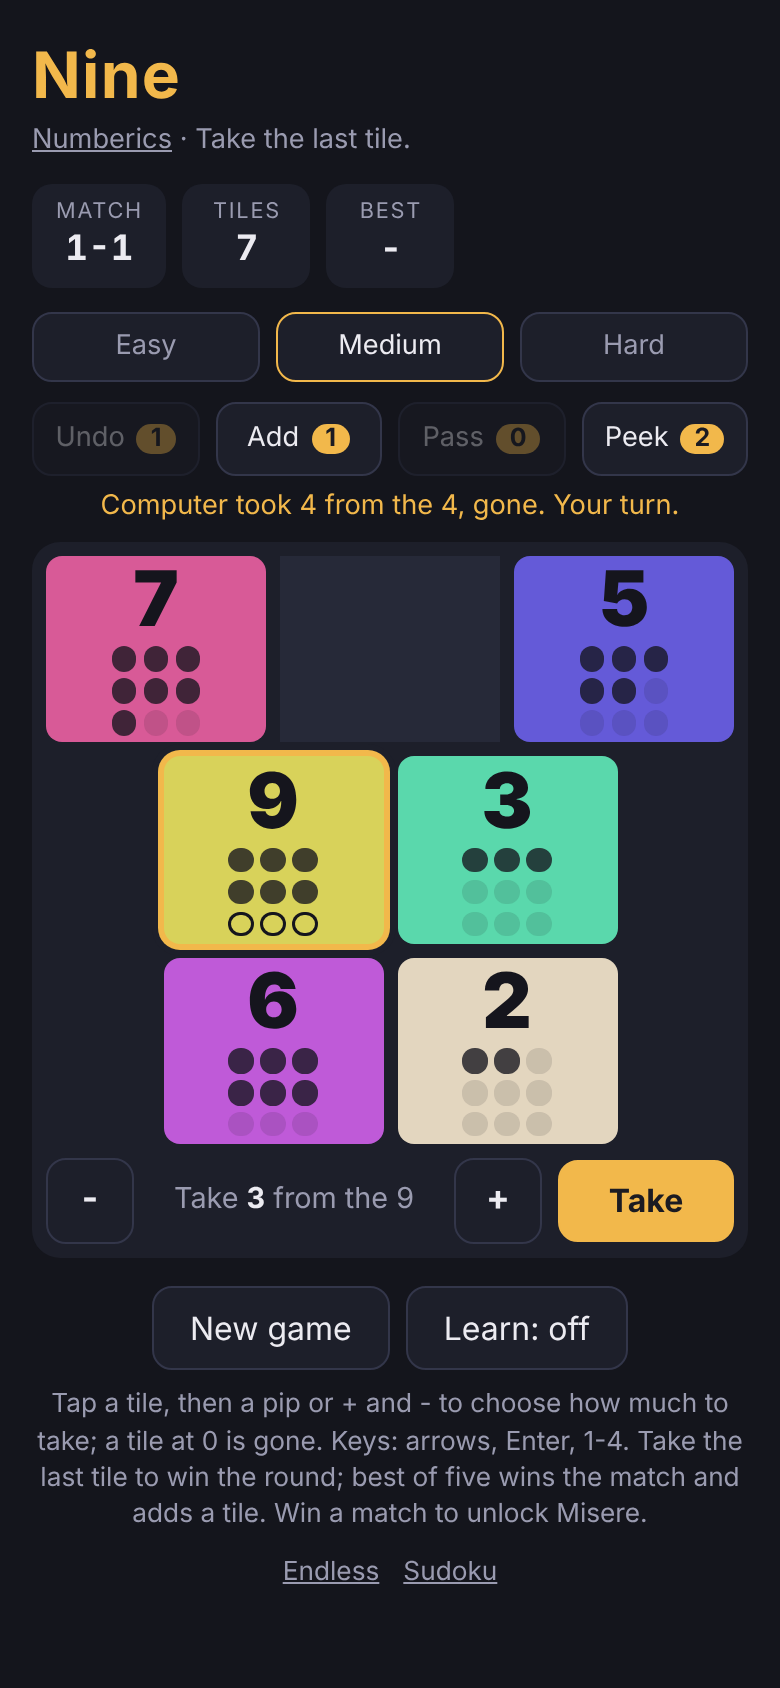
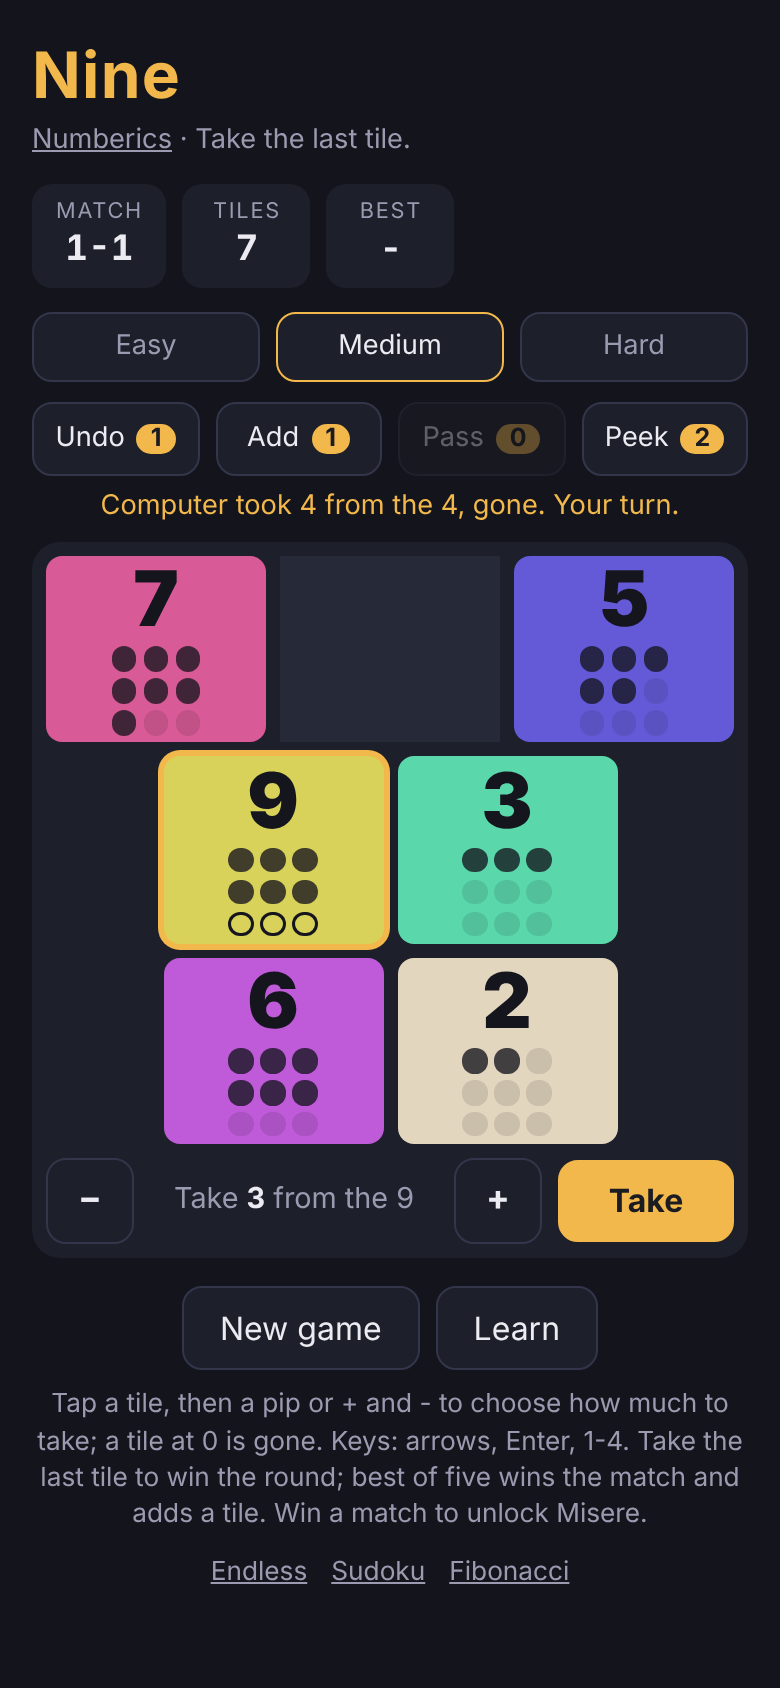
Nine: Nim with tiles up to nine, best of five, runs climb to nine tiles
Every dealt start is winnable for the player, who moves first; Hard plays the
nim-sum and uses power-ups. Misere unlocks after the first match win; Learn view
shows binary and the nim-sum.

diff --git a/nine/game.js b/nine/game.js
@@ -25,7 +25,7 @@
   }
   var saved = store.load() || {};
   var prefs = saved.prefs && typeof saved.prefs === "object" ? saved.prefs : {};
-  prefs = { diff: N.DIFFS.indexOf(prefs.diff) >= 0 ? prefs.diff : "medium", misere: !!prefs.misere && !!prefs.unlocked,
+  prefs = { diff: N.DIFFS.indexOf(prefs.diff) >= 0 ? prefs.diff : "easy", misere: !!prefs.misere && !!prefs.unlocked,
             learn: !!prefs.learn, unlocked: !!prefs.unlocked };
   var best = saved.best && typeof saved.best === "object" ? saved.best : {};
   var state = validState(saved.state) ? saved.state : N.newGame(K.freshSeed(), prefs);
@@ -127,9 +127,9 @@
       var xb = document.createElement("b"); xb.textContent = bin(x) + " (" + x + ")"; ln.appendChild(xb);
       ln.insertBefore(document.createTextNode("Nim-sum "), ln.firstChild);
     }
-    $("learn-btn").textContent = "Learn: " + (prefs.learn ? "on" : "off"); $("learn-btn").setAttribute("aria-pressed", String(prefs.learn));
+    $("learn-btn").setAttribute("aria-pressed", String(prefs.learn));
     var mb = $("misere"); mb.hidden = !prefs.unlocked;
-    mb.textContent = "Misere: " + (state.misere ? "on" : "off"); mb.setAttribute("aria-pressed", String(state.misere));
+    mb.setAttribute("aria-pressed", String(state.misere));
     drawOver();
   }
   function drawOver() {
@@ -162,7 +162,6 @@
       var k = bestKey(state); best[k] = Math.max(best[k] || 0, state.level);
       if (!prefs.unlocked) { prefs.unlocked = true; K.toast("Misere unlocked: the last take loses."); }
     }
-    if (state.roundOver && !prevState.roundOver && !state.matchOver && state.award && state.award.who === "you") K.toast("Round won  +" + NAME[state.award.name]);
     persist(); render(); schedule();
   }
   function schedule() {
@@ -297,13 +296,13 @@
   Array.prototype.forEach.call(document.querySelectorAll("#diff button"), function (b) {
     b.addEventListener("click", function () {
       var d = b.getAttribute("data-diff"); if (d === state.diff) return;
-      confirmNew("diff-" + d, "Tap again to start a new run on " + b.textContent, function () { prefs.diff = d; restart(); });
+      confirmNew("diff-" + d, "Tap again: new run on " + b.textContent, function () { prefs.diff = d; restart(); });
     });
   });
   $("misere").addEventListener("click", function () {
     if (!prefs.unlocked) return;
     var want = !state.misere;
-    confirmNew("misere-" + want, "Tap again to start a new run with Misere " + (want ? "on" : "off"), function () { prefs.misere = want; restart(); });
+    confirmNew("misere-" + want, "Tap again: new run, Misere " + (want ? "on" : "off"), function () { prefs.misere = want; restart(); });
   });
   function toggleLearn() { prefs.learn = !prefs.learn; persist(); render(); }
   $("learn-btn").addEventListener("click", toggleLearn);

diff --git a/tests/test-nine.js b/tests/test-nine.js
@@ -176,16 +176,28 @@ t("Peek: spends a charge and returns the winning move (null when lost)", () => {
   ok(!N.use(forge({ heaps: [1, 2, 3] }), "peek").ok);
 });
 t("Undo restores the start of your last turn, stock included, and cannot farm", () => {
-  let s = forge({ heaps: [0, 0, 2], you: { undo: 1, add: 1 } });
-  s = N.use(s, "add", 2).state; s = N.take(s, 2, 3).state; // add then take the last: round won, award earned
-  eq(s.roundOver, "you"); const earned = s.power.you;
+  // a won round cannot be undone, so its award can never be rewound and re-earned
+  let w = forge({ heaps: [0, 0, 2], you: { undo: 1, add: 1 } });
+  w = N.use(w, "add", 2).state; w = N.take(w, 2, 3).state; eq(w.roundOver, "you");
+  ok(!N.canUndo(w) && !N.use(w, "undo").ok, "no undo after a won round");
+  // add, take, the computer wins: undo puts back the tiles, the Add, the score, and spends the Undo
+  let s = forge({ heaps: [0, 1, 2], you: { undo: 1, add: 1 } });
+  s = N.use(s, "add", 1).state; s = N.take(s, 2, 2).state; eq(s.heaps, [0, 2, 0]);
+  s = N.cpuTurn(s); eq(s.roundOver, "cpu"); eq(s.score, { you: 0, cpu: 1 });
   const u = N.use(s, "undo"); ok(u.ok);
-  eq(u.state.heaps, [0, 0, 2]); eq(u.state.roundOver, null); eq(u.state.score, { you: 0, cpu: 0 });
-  eq(u.state.power.you, { undo: 0, add: 1, pass: 0, peek: 0 }, "award and add rewound, undo spent " + JSON.stringify(earned));
+  eq(u.state.heaps, [0, 1, 2]); eq(u.state.roundOver, null); eq(u.state.score, { you: 0, cpu: 0 }); eq(u.state.turn, "you");
+  eq(u.state.power.you, { undo: 0, add: 1, pass: 0, peek: 0 }, "add back, undo spent");
+  eq(u.state.power.cpu, s.prev.power.cpu, "the computer's award is rewound too");
   ok(!N.use(u.state, "undo").ok, "one level only");
   // undo after the computer's winning reply takes back both moves
   let c = forge({ heaps: [2, 2, 0], diff: "hard" }); c = N.take(c, 0, 1).state; c = N.cpuTurn(c);
   ok(!N.winning(c.heaps, false)); const back = N.use(c, "undo").state; eq(back.heaps, [2, 2, 0]); eq(back.turn, "you");
+});
+t("a Peek spent after your last move stays spent through Undo", () => {
+  let s = forge({ heaps: [1, 2, 3, 5], diff: "easy", you: { undo: 1, peek: 1 } });
+  s = N.take(s, 3, 1).state; s = N.cpuTurn(s);
+  s = N.use(s, "peek").state; eq(s.power.you.peek, 0);
+  const u = N.use(s, "undo").state; eq(u.power.you.peek, 0); eq(u.heaps, [1, 2, 3, 5]); eq(u.used, 2);
 });
 t("a power-up never earns a power-up, and the computer earns only on Hard", () => {
   const s = forge({ heaps: [1, 2, 3], you: { undo: 0, add: 1, pass: 1, peek: 1 } });

diff --git a/nine/engine.js b/nine/engine.js
@@ -133,10 +133,11 @@
     var v = s.heaps[tile];
     return live(s) && !s.added && (s.power[s.turn].add || 0) > 0 && Number.isInteger(v) && v >= 1 && v < MAX;
   }
-  function canUndo(s) { return !!s.prev && (s.power.you.undo || 0) > 0 && !s.prev.matchOver; }
+  // Undo is for taking back a mistake: never after a round you won (nothing to fix, and no award to rewind).
+  function canUndo(s) { return !!s.prev && (s.power.you.undo || 0) > 0 && s.roundOver !== "you"; }
 
   // Power-ups for the side to move (the player calls this with s.turn === "you"; undo is the player's only).
-  //   undo        restores the start of the player's last turn, stock included (no farming)
+  //   undo        restores the start of the player's last turn, stock included (no farming); spent Peeks stay spent
   //   add, tile   +1 to one live tile, never past 9; once per turn; you still take after it
   //   pass        skip this turn; not right after the other side passed (no pass-back)
   //   peek        spends a charge and returns one winning move in .move (null when there is none)
@@ -144,7 +145,9 @@
     var fail = { ok: false, state: s0 };
     if (name === "undo") {
       if (!canUndo(s0)) return fail;
-      var u = clone(s0.prev); u.power.you.undo--; u.used++; u.ply = s0.ply + 1;
+      var u = clone(s0.prev); u.power.you.undo--; u.used = s0.used + 1; u.ply = s0.ply + 1;
+      // Peek is information: a spent Peek stays spent after Undo, so Peek + Undo never shows a move for free.
+      u.power.you.peek = Math.min(u.power.you.peek, s0.power.you.peek);
       return { ok: true, state: u };
     }
     if (!live(s0)) return fail;

diff --git a/nine/style.css b/nine/style.css
@@ -15,7 +15,7 @@
 .pips i.take{ opacity:1; background:transparent; box-shadow:0 0 0 1.5px #15151d inset; }
 .heap .bin{ position:absolute; top:5%; right:7%; font:600 min(4.4cqh,5.4cqw)/1 ui-monospace,Menlo,Consolas,monospace; opacity:.7; }
 .heap.sel{ box-shadow:0 0 0 3px var(--accent), 0 0 0 6px var(--panel); }
-.heap.peek::after{ content:""; position:absolute; inset:-6px; border:2px dashed var(--accent); border-radius:calc(var(--tile-radius) + 4px); pointer-events:none; }
+.heap.peek::after{ content:""; position:absolute; inset:5px; border:2px dashed #15151d; border-radius:calc(var(--tile-radius) - 3px); opacity:.6; pointer-events:none; }
 .heap.cpu::before{ content:""; position:absolute; inset:0; border-radius:inherit; box-shadow:0 0 0 2px var(--cool) inset; pointer-events:none; }
 .board.targeting .heap:not(.gone){ cursor:crosshair; }
 .heap:focus-visible{ outline:2px solid var(--accent); outline-offset:2px; }

diff --git a/nine/index.html b/nine/index.html
@@ -53,8 +53,8 @@
 
   <div class="row">
     <button id="new" class="btn" type="button">New game</button>
-    <button id="learn-btn" class="btn" type="button" aria-pressed="false">Learn: off</button>
-    <button id="misere" class="btn" type="button" aria-pressed="false" hidden>Misere: off</button>
+    <button id="learn-btn" class="btn" type="button" aria-pressed="false" title="Show each tile in binary and the nim-sum (L)">Learn</button>
+    <button id="misere" class="btn" type="button" aria-pressed="false" title="Misere: the last take loses" hidden>Misere</button>
   </div>
   <p class="how">Tap a tile, then a pip or + and - to choose how much to take; a tile at 0 is gone. Keys: arrows, Enter, 1-4.
      Take the last tile to win the round; best of five wins the match and adds a tile. Win a match to unlock Misere.</p>

diff --git a/shared/nav.js b/shared/nav.js
@@ -8,7 +8,8 @@
     ["endless", "Endless", ""],
     ["sudoku", "Sudoku", "sudoku/"],
     ["fibonacci", "Fibonacci", "fibonacci/"],
-    ["five", "Five", "five/"]
+    ["five", "Five", "five/"],
+    ["nine", "Nine", "nine/"]
   ];
   var el = document.getElementById("games"); if (!el) return;
   var root = el.getAttribute("data-root") || "", cur = el.getAttribute("data-current");
